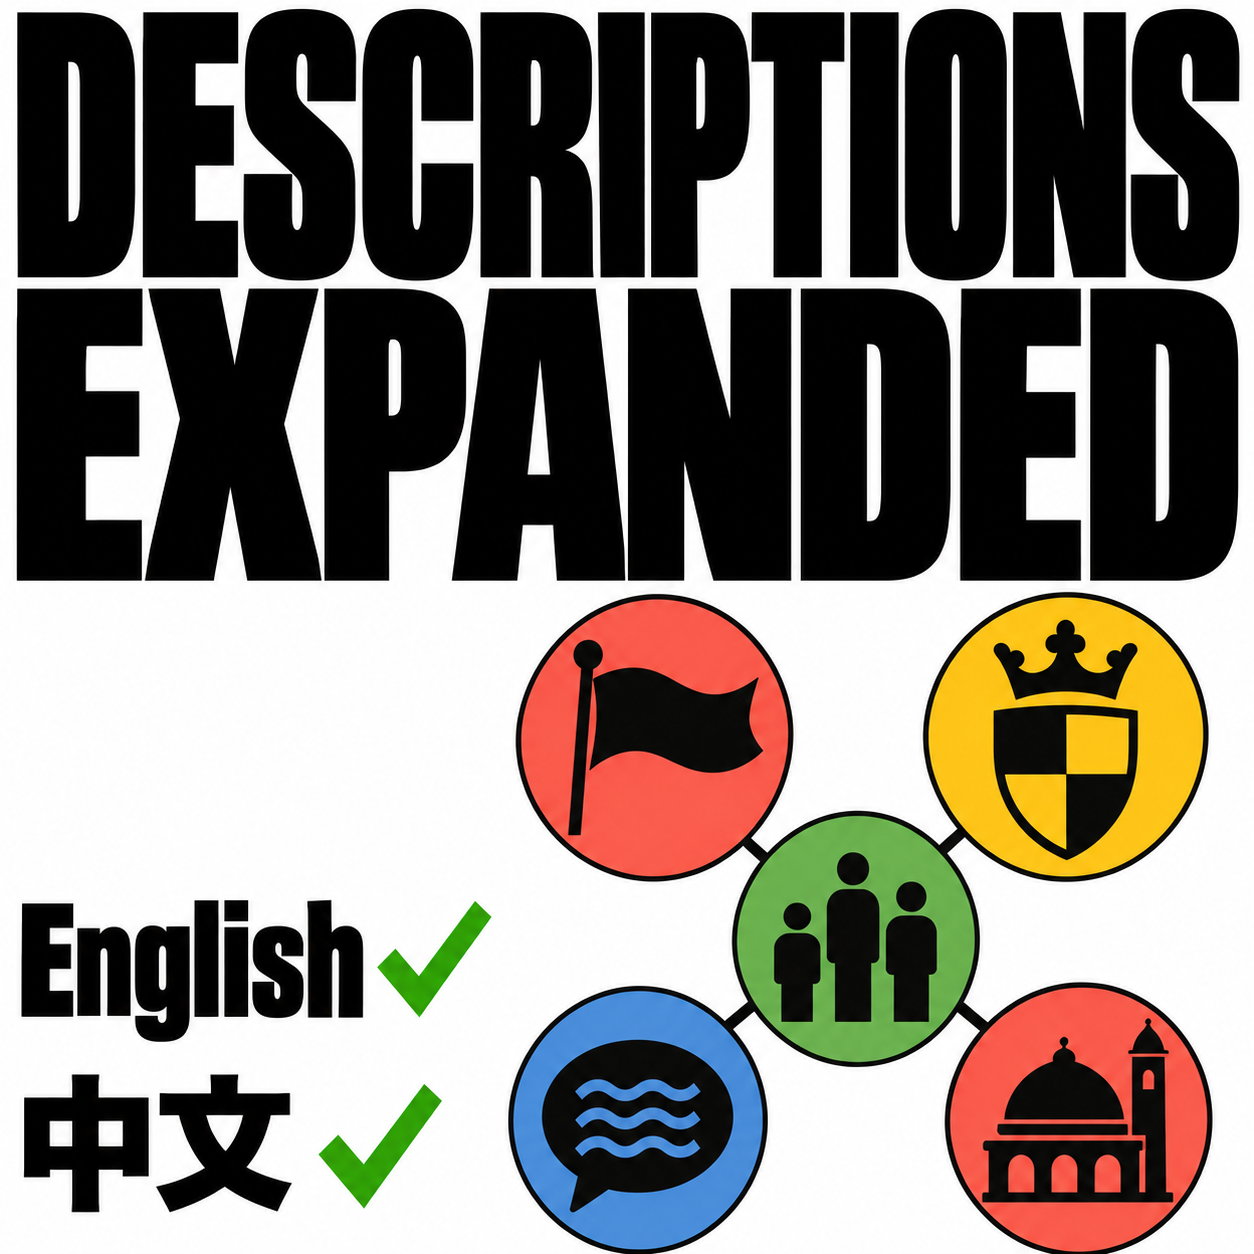
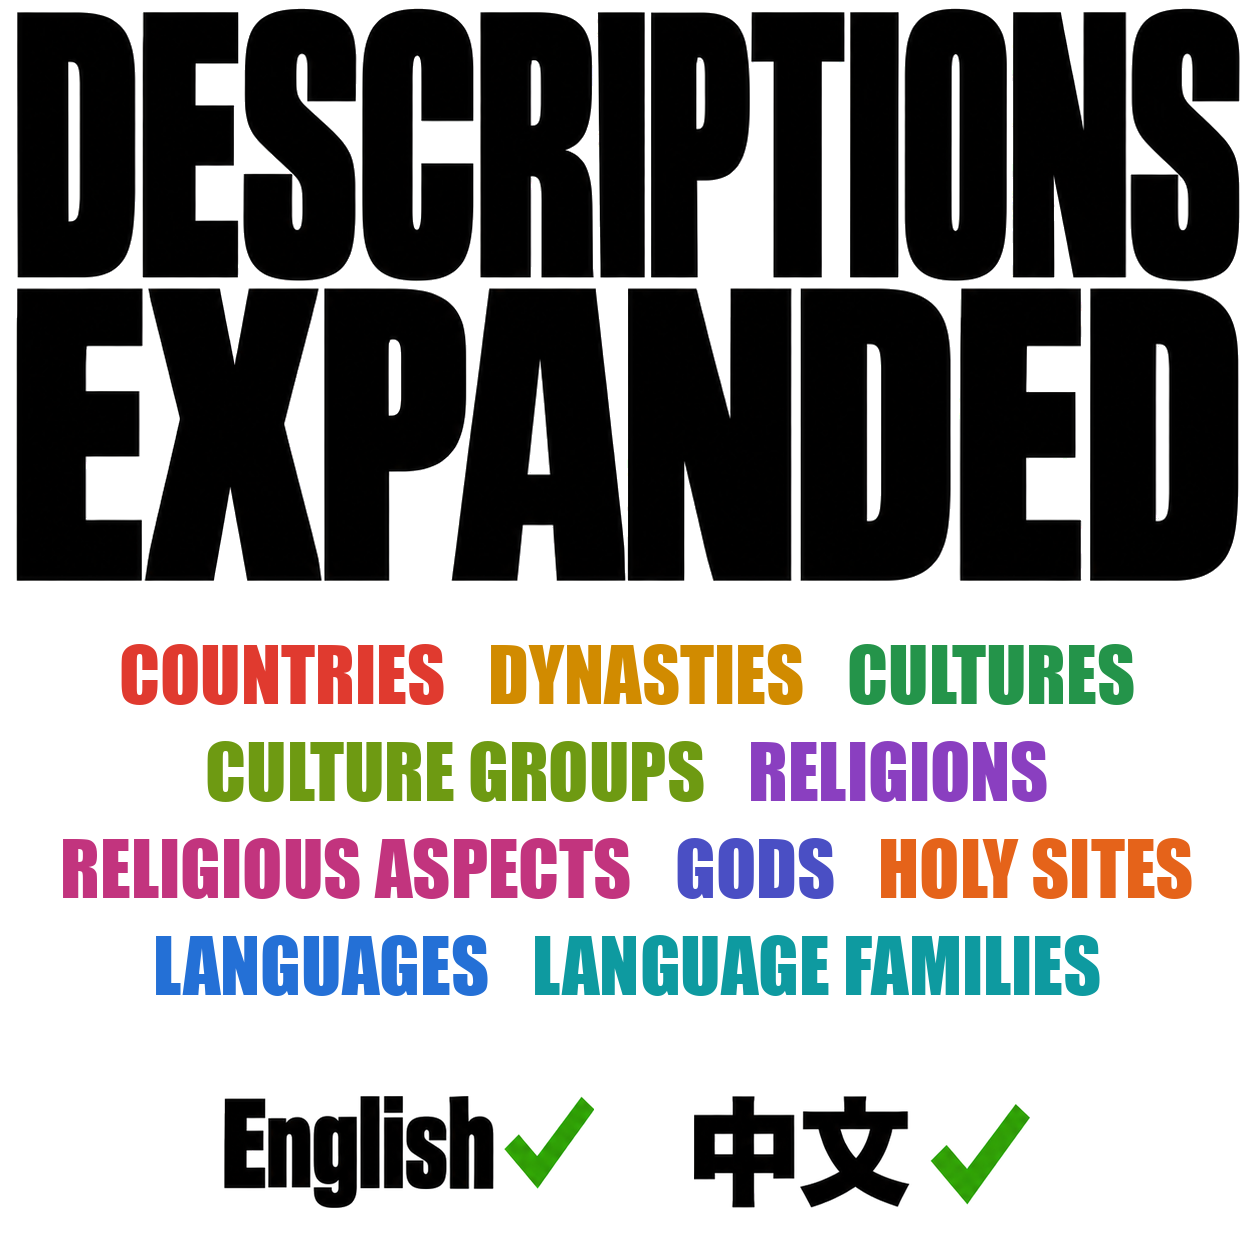
新封面（十个类目彩字）、新文案、构建接入宗教、提交描述前拦截占位符

Changed region(s): [[0.0, 0.4665, 0.9641, 1.0]]

diff --git a/tools/cover.py b/tools/cover.py
@@ -1,6 +1,7 @@
 """工坊封面：Codex 生图模型画的母版（workshop/assets/cover-master.*.png，提示词在 cover-prompt.*.txt），
 导出 cover.jpg、cover.zh-CN.jpg（1254，JPEG 90）和模组缩略图 thumbnail.png（512）。封面是宣传图，不是游戏截图。
 
+uv run --with pillow python tools/cover.py compose   # 在 macOS 上跑（用系统自带的兰亭黑和 Impact）
 uv run --with pillow python tools/cover.py derive
 """
 import argparse
@@ -64,11 +65,94 @@ def compose_zh():
     print(f'标题底边 {y}，插画顶 {top}')
 
 
+# 2026-11-13 用户定：封面去掉圆圈插画，把模组覆盖的类目全部用彩色粗体字列出来（不写“更多”）。
+# 加新类目时在 CATEGORIES 里加一项，重跑 compose 和 derive。
+SOURCE = 'cover-source.en.png'          # Codex 原始母版：取英文标题和左下角的 English ✓、中文 ✓ 两个语言标签
+EN_FONT = '/System/Library/Fonts/Supplemental/Impact.ttf'
+CATEGORIES = (                          # (英文, 中文, 颜色)；名称照游戏本地化（game_concept_*）
+    ('COUNTRIES', '国家', '#E03A2F'),
+    ('DYNASTIES', '王朝', '#D18B00'),
+    ('CULTURES', '文化', '#24944A'),
+    ('CULTURE GROUPS', '文化组', '#6E9A12'),
+    ('RELIGIONS', '宗教', '#8A3FC0'),
+    ('RELIGIOUS ASPECTS', '宗教信条', '#C2347E'),
+    ('GODS', '神祇', '#4A4FC4'),
+    ('HOLY SITES', '圣地', '#E5631A'),
+    ('LANGUAGES', '语言', '#2470D6'),
+    ('LANGUAGE FAMILIES', '语族', '#0E9AA0'),
+)
+EN_ROWS = ((0, 1, 2), (3, 4), (5, 6, 7), (8, 9))
+ZH_ROWS = ((0, 1, 2, 3), (4, 5, 6), (7, 8, 9))
+TITLE_BOTTOM = 587                      # 母版 1254 高时英文标题底边
+MARK_BOXES = ((21, 900, 491, 1042), (24, 1074, 442, 1213))   # 母版里 English ✓、中文 ✓ 的范围
+
+
+def compose():
+    """生成 cover-master.en.png 和 cover-master.zh-CN.png：标题 + 类目彩字 + 语言标签，类目和标签在标题下方垂直居中。"""
+    from PIL import ImageDraw, ImageFont
+    src = Image.open(ASSETS / SOURCE).convert('RGB').point(lambda v: 255 if v >= 232 else v)
+    w, h = src.size
+    marks = [src.crop(b) for b in MARK_BOXES]
+    zh_face = next(i for i in range(12) if ImageFont.truetype(ZH_FONT, 10, index=i).getname()[1] in ('Heavy', '特黑'))
+
+    def fit(font_of, rows, labels, gap, max_w):
+        size = 400
+        while max(sum(font_of(size).getlength(labels[i]) for i in r) + gap * (len(r) - 1) for r in rows) > max_w:
+            size -= 2
+        return font_of(size)
+
+    for lang in ('en', 'zh-CN'):
+        m = Image.new('RGB', (w, h), 'white')
+        d = ImageDraw.Draw(m)
+        if lang == 'en':
+            m.paste(src.crop((0, 0, w, TITLE_BOTTOM)), (0, 0))
+            top = TITLE_BOTTOM
+            labels = [c[0] for c in CATEGORIES]
+            rows, gap = EN_ROWS, int(w * 0.035)
+            font = fit(lambda s: ImageFont.truetype(EN_FONT, s), rows, labels, gap, w * 0.92)
+            lh = int(font.size * 1.32)
+        else:
+            f = ImageFont.truetype(ZH_FONT, 10, index=zh_face)
+            size = 10
+            while ImageFont.truetype(ZH_FONT, size + 4, index=zh_face).getlength('描述扩展') < w * 0.94:
+                size += 4
+            f = ImageFont.truetype(ZH_FONT, size, index=zh_face)
+            x0, y0, x1, y1 = d.textbbox((0, 0), '描述扩展', font=f)
+            d.text(((w - (x1 - x0)) / 2 - x0, int(h * 0.025) - y0), '描述扩展', font=f, fill='black')
+            top = int(h * 0.025) + (y1 - y0)
+            labels = [c[1] for c in CATEGORIES]
+            rows, gap = ZH_ROWS, int(w * 0.035)
+            font = fit(lambda s: ImageFont.truetype(ZH_FONT, s, index=zh_face), rows, labels, gap, w * 0.93)
+            lh = int(font.size * 1.75)
+        # 语言标签：两个原图标签横排，按高度缩放
+        mark_h = int(h * (0.11 if lang == 'zh-CN' else 0.09))
+        scaled = [mk.resize((int(mk.width * mark_h / mk.height), mark_h), Image.LANCZOS) for mk in marks]
+        marks_w = sum(s.width for s in scaled) + int(w * 0.08)
+        spacing = int(h * (0.08 if lang == 'zh-CN' else 0.06))
+        block = lh * len(rows) + spacing + mark_h
+        y = top + (h - top - block) // 2
+        for r in rows:
+            ws = [font.getlength(labels[i]) for i in r]
+            x = (w - (sum(ws) + gap * (len(r) - 1))) / 2
+            for i, tw in zip(r, ws):
+                bx0, by0, _, _ = d.textbbox((0, 0), labels[i], font=font)
+                d.text((x - bx0, y - by0 + (lh - font.size) // 2), labels[i], font=font, fill=CATEGORIES[i][2])
+                x += tw + gap
+            y += lh
+        y += spacing
+        x = (w - marks_w) // 2
+        for s in scaled:
+            m.paste(s, (x, y))
+            x += s.width + int(w * 0.08)
+        m.save(ASSETS / f'cover-master.{lang}.png')
+        print(lang, '类目字号', font.size, '底边', y + mark_h)
+
+
 def main():
     ap = argparse.ArgumentParser(description=__doc__, formatter_class=argparse.RawDescriptionHelpFormatter)
-    ap.add_argument('cmd', choices=['derive', 'compose-zh'])
+    ap.add_argument('cmd', choices=['derive', 'compose', 'compose-zh'])
     a = ap.parse_args()
-    compose_zh() if a.cmd == 'compose-zh' else derive()
+    {'derive': derive, 'compose': compose, 'compose-zh': compose_zh}[a.cmd]()
 
 
 if __name__ == '__main__':

diff --git a/workshop/assets/coverage-20261112/render.py b/workshop/assets/coverage-20261112/render.py
@@ -23,6 +23,10 @@ TEXT = {
            'language': ('Languages', 'All languages in the game'),
            'language_family': ('Language families', 'All language families'),
            'holy_site': ('Holy sites', 'Shrines, temples and pilgrimage sites'),
+           'culture_group': ('Culture groups', 'All culture groups in the game'),
+           'religion': ('Religions', 'All religions in the game'),
+           'religious_aspect': ('Religious aspects', 'All religious aspects in the game'),
+           'god': ('Gods', 'All gods in the game'),
            'total': ('All', None),
            'legend': ('Vanilla description', 'Added by this mod')},
     'zh-CN': {'head': ('类别', '原版', '本模组', '覆盖率'),
@@ -32,6 +36,10 @@ TEXT = {
               'language': ('语言', '游戏里的全部语言'),
               'language_family': ('语族', '游戏里的全部语族'),
               'holy_site': ('圣地', '神庙、圣陵和朝圣地'),
+              'culture_group': ('文化组', '游戏里的全部文化组'),
+              'religion': ('宗教', '游戏里的全部宗教'),
+              'religious_aspect': ('宗教信条', '游戏里的全部宗教信条'),
+              'god': ('神祇', '游戏里的全部神祇'),
               'total': ('合计', None),
               'legend': ('原版自带描述', '本模组新增')},
 }

diff --git a/tests/test_build.py b/tests/test_build.py
@@ -127,7 +127,7 @@ class TestBuild(Fixture):
     def test_rejects_bad_rows(self):
         for bad in ({**ROWS[0], 'sources': []}, {**ROWS[0], 'en': 'has [brackets]'}, {**ROWS[0], 'zh': '两行\n文字'},
                     {**ROWS[0], 'verdict': 'skip'}, {**ROWS[0], 'en': 'Three\n\n\nnewlines.'},
-                    {**ROWS[0], 'en': 'Two\n\nparagraphs.'}, {**ROWS[0], 'kind': 'religion'},
+                    {**ROWS[0], 'en': 'Two\n\nparagraphs.'}, {**ROWS[0], 'kind': 'deity'},
                     {**ROWS[0], 'official': True}):
             self.write_rows([bad])
             with self.assertRaises(ValueError):

diff --git a/tools/steam_page.py b/tools/steam_page.py
@@ -188,6 +188,8 @@ class Steam:
         return results
 
     def description(self, lang, text, title):
+        if '{{' in text or '}}' in text:  # 文案里的占位符（{{coverage}} 图片地址、{{qq}} 群号）要先换成实际内容
+            raise RuntimeError(f'{lang} description still has a {{placeholder}}')
         handle = self.ug('StartItemUpdate', U64, [U32,U64], APP, ITEM)
         assert self.ug('SetItemUpdateLanguage', B, [U64,S], handle, lang.encode())
         assert self.ug('SetItemTitle', B, [U64,S], handle, title.encode())

diff --git a/AGENTS.md b/AGENTS.md
@@ -51,6 +51,7 @@ python -B tools\build.py --verify dist\<新目录>
 
 - 2026-11-12 用户定：工坊文案照地块模组的写法，大幅简化，只讲补了哪些对象、各多少（覆盖表图）；兼容铁人和成就照人物模组写；AI 一段照地块模组，不点名模型。
 - 2026-11-13 成就实测：游戏 1.4.7，用户播放集（7 个创意工坊模组）主菜单校验码 5b61，加上本模组变 4152，只加一个纯本地化测试模组变 5bd8，说明 EU5 的校验码随本地化改变；但两种情况下选国界面奖杯的成就条件全部打勾（含“未使用任何特殊启动项，例如校验码未修改”），所以“兼容成就”有实测依据。铁人模式本身没单独测。
+- 2026-11-13 用户定新文案和封面：文案去掉 h1 和“我的其他 MOD”“更新记录”两节，写明用到的模型，不再提官方 22 条；封面去掉圆圈插画，十个类目（国家、王朝、文化、文化组、宗教、宗教信条、神祇、圣地、语言、语族，名称照游戏 game_concept_*）用彩色粗体字全部列出，不写“更多”。封面由 `tools/cover.py compose`（macOS 上跑，兰亭黑特黑和 Impact）从 `cover-source.en.png`（Codex 原始母版，取英文标题和语言标签）生成两张母版，再 `derive`；加类目改 `CATEGORIES`。构建已接入宗教（replace/ 覆盖官方描述）；文化组、神祇、宗教信条还在研究工程里写，写完要在 `build.py` 的 `KINDS`、`DESC_KINDS` 加上，同步数据，更新覆盖表 `coverage.json`（render.py 已有这四类的名称）并重绘，文案里的总数改成新的合计。文案里的 `{{coverage}}`（覆盖表图片地址，`--host-images` 之后填）和 `{{qq}}`（QQ 群号，等用户给）是占位符，`steam_page.py` 提交描述时遇到占位符会拒绝。
 - 2026-11-13 截图已按分段后的文本重拍（190ebf8）。还差：用户确认文案（开头“原版只给其中 22 个”缺总数、版本号 0.0.0/0.1.0/1.0.0 待定），之后建私密条目上传。
 
 ## 文件
